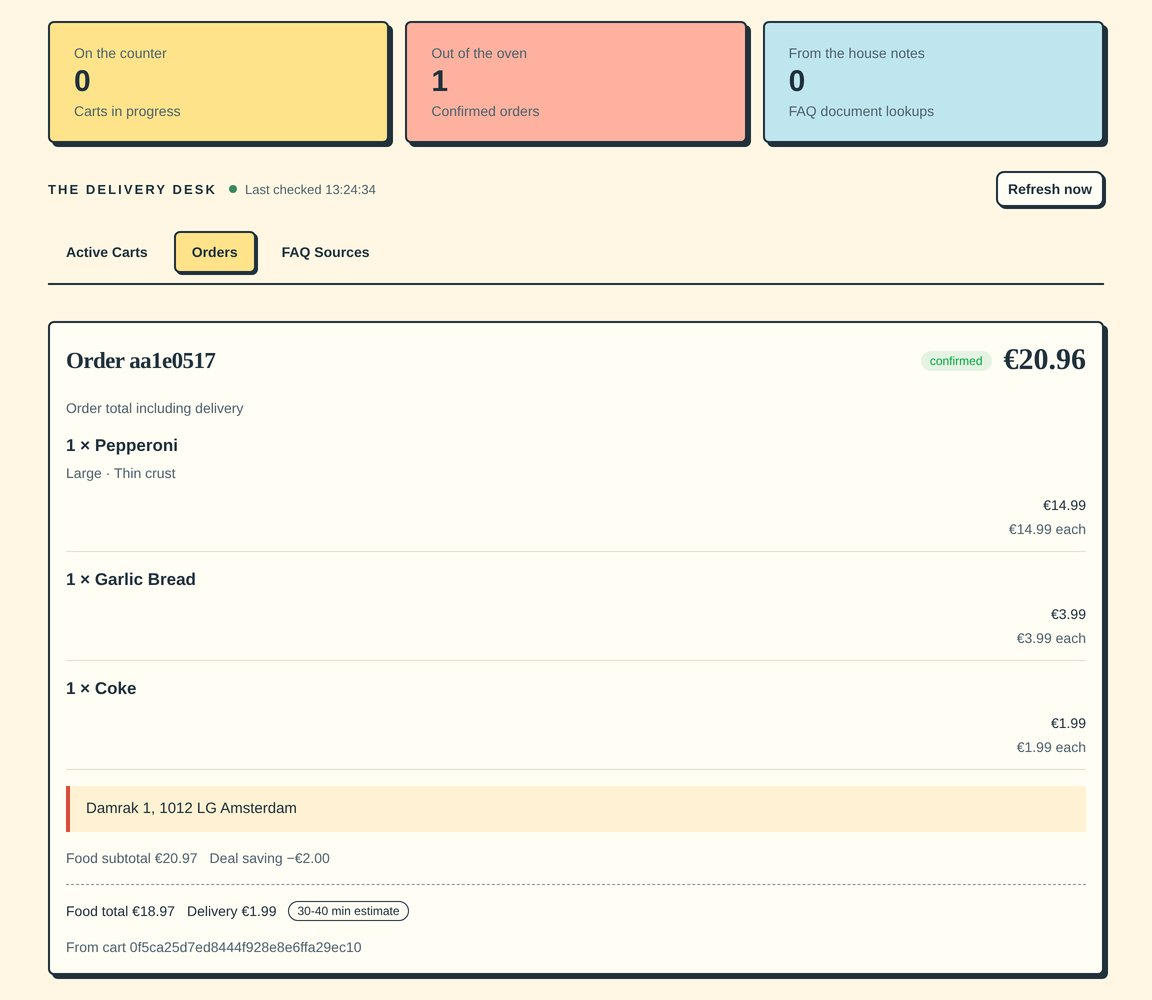
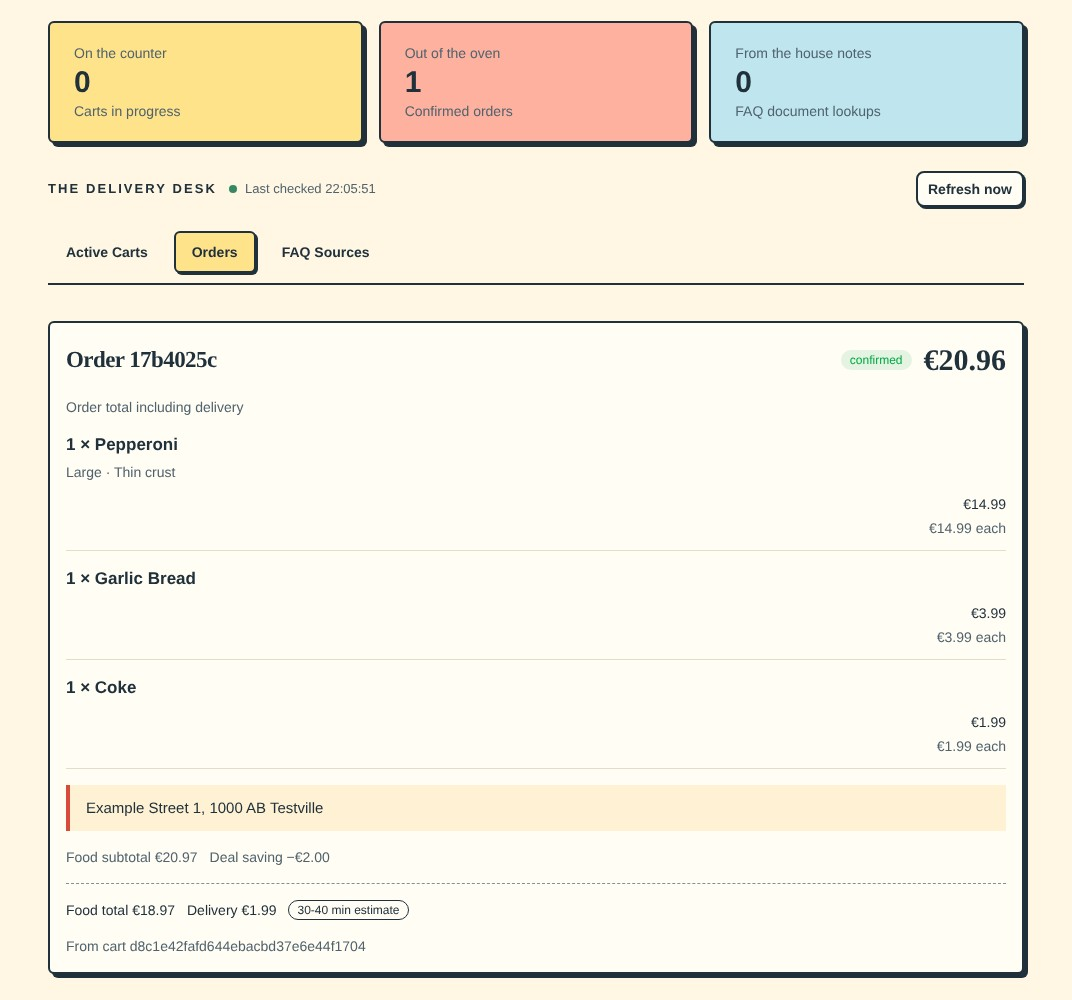
Use the made-up address everywhere
The walk-through, the delivery desk screenshot and the tests used Damrak 1,
a real Amsterdam address, while Chapter 3 and make measure use the made-up
Example Street 1, 1000 AB Testville. Real addresses count as personal data
in this repository, so use the made-up one at the source: in the text, in a
retaken screenshot of the same order (same items, deal and 20.96 total) and
in the test data.

diff --git a/tests/test_tools.py b/tests/test_tools.py
@@ -30,9 +30,10 @@ async def test_full_order_with_deal_delivery_fee_and_faq():
             "apply_deal", {"session_id": "order", "deal_id": "meal_deal_standard"}
         )
         quote = await client.call_tool(
-            "set_delivery_address", {"session_id": "order", "address": "Damrak 1, Amsterdam"}
+            "set_delivery_address",
+            {"session_id": "order", "address": "Example Street 1, Testville"},
         )
-        assert quote.data["address"] == "Damrak 1, Amsterdam"
+        assert quote.data["address"] == "Example Street 1, Testville"
         assert quote.data["delivery_fee"] == 1.99
         facts = await client.call_tool("faq_read", {"filename": "allergen_info.md"})
         assert "garlic" in facts.data.lower()
@@ -72,21 +73,23 @@ async def test_address_is_saved_as_the_customer_gave_it_and_can_be_replaced():
             await client.call_tool("set_delivery_address", {"session_id": "cart", "address": "  "})
         assert not state.sessions
         await client.call_tool(
-            "set_delivery_address", {"session_id": "cart", "address": "  Damrak 1,   Amsterdam "}
+            "set_delivery_address",
+            {"session_id": "cart", "address": "  Example Street 1,   Testville "},
         )
-        assert state.sessions["cart"].delivery_address == "Damrak 1, Amsterdam"
+        assert state.sessions["cart"].delivery_address == "Example Street 1, Testville"
         quote = (
             await client.call_tool(
-                "set_delivery_address", {"session_id": "cart", "address": "Rokin 75, Amsterdam"}
+                "set_delivery_address",
+                {"session_id": "cart", "address": "Sample Road 2, Testville"},
             )
         ).data
     assert quote == {
-        "address": "Rokin 75, Amsterdam",
+        "address": "Sample Road 2, Testville",
         "delivery_fee": 1.99,
         "estimated_minutes": "30-40",
         "currency": "EUR",
     }
-    assert state.sessions["cart"].delivery_address == "Rokin 75, Amsterdam"
+    assert state.sessions["cart"].delivery_address == "Sample Road 2, Testville"
     assert not state.orders
 
 

diff --git a/tests/test_client.py b/tests/test_client.py
@@ -54,7 +54,7 @@ async def test_customer_recovers_and_model_cannot_redirect_session():
                     ToolCall(
                         "3",
                         "set_delivery_address",
-                        {"session_id": "someone-else", "address": "Damrak 1, Amsterdam"},
+                        {"session_id": "someone-else", "address": "Example Street 1, Testville"},
                     )
                 ]
             ),
@@ -75,15 +75,15 @@ async def test_customer_recovers_and_model_cannot_redirect_session():
         assert not state.orders
         assert set(state.sessions) == {agent.session_id}
         assert "Rejected:" in model.requests[2][0][-1]["content"]
-        await agent.send("Damrak 1, Amsterdam")
+        await agent.send("Example Street 1, Testville")
         assert not state.orders
         quote = json.loads(model.requests[4][0][-1]["content"])
-        assert quote["address"] == "Damrak 1, Amsterdam" and quote["delivery_fee"] == 1.99
+        assert quote["address"] == "Example Street 1, Testville" and quote["delivery_fee"] == 1.99
         assert set(state.sessions) == {agent.session_id}
         await agent.send("Yes, confirm.")
     [order] = state.orders.values()
     assert order.session_id == agent.session_id
-    assert order.cart.delivery_address == "Damrak 1, Amsterdam"
+    assert order.cart.delivery_address == "Example Street 1, Testville"
 
 
 @pytest.mark.parametrize("allowed_tools", [None, {"browse_menu"}])

diff --git a/tests/test_operator_view.py b/tests/test_operator_view.py
@@ -99,12 +99,13 @@ async def test_operator_quote_and_confirmed_order_match_saved_business_state():
         snapshot = get_operator_snapshot()
         assert snapshot["active_carts"][0]["check"] == "Delivery address needed"
         await client.call_tool(
-            "set_delivery_address", {"session_id": "dinner", "address": "Damrak 1, Amsterdam"}
+            "set_delivery_address",
+            {"session_id": "dinner", "address": "Example Street 1, Testville"},
         )
         ready = get_operator_snapshot()["active_carts"][0]
         assert ready["check"] == "Ready to review" and ready["delivery_ready"]
         assert ready["grand_total"] == "€16.98" and ready["delivery_fee"] == "€1.99"
-        assert ready["address"] == "Damrak 1, Amsterdam"
+        assert ready["address"] == "Example Street 1, Testville"
         confirmed = (await client.call_tool("confirm_order", {"session_id": "dinner"})).data
         final = get_operator_snapshot()
         assert not final["active_carts"]

diff --git a/tests/test_record.py b/tests/test_record.py
@@ -106,12 +106,16 @@ async def test_a_call_that_changes_nothing_is_found(tmp_path):
     session, steps = await chat(
         tmp_path / "chat.jsonl",
         [
-            Reply(tool_calls=[ToolCall("1", "set_delivery_address", {"address": "Damrak 1"})]),
+            Reply(
+                tool_calls=[ToolCall("1", "set_delivery_address", {"address": "Example Street 1"})]
+            ),
             Reply("Saved."),
-            Reply(tool_calls=[ToolCall("2", "set_delivery_address", {"address": "Damrak 1"})]),
+            Reply(
+                tool_calls=[ToolCall("2", "set_delivery_address", {"address": "Example Street 1"})]
+            ),
             Reply("Done."),
         ],
-        ["Deliver to Damrak 1.", "Deliver to Damrak 1."],
+        ["Deliver to Example Street 1.", "Deliver to Example Street 1."],
     )
     found = findings(session, steps)
     assert any(f.startswith("turn 2 step 1  host/record") for f in found)

diff --git a/tests/test_business_tools.py b/tests/test_business_tools.py
@@ -92,7 +92,8 @@ async def test_each_chat_has_its_own_cart_and_its_own_order():
                 {"session_id": session, "pizza_id": "pepperoni", "size": size, "crust": "thin"},
             )
             await client.call_tool(
-                "set_delivery_address", {"session_id": session, "address": "Damrak 1, Amsterdam"}
+                "set_delivery_address",
+                {"session_id": session, "address": "Example Street 1, Testville"},
             )
         mine = (await client.call_tool("confirm_order", {"session_id": "mine"})).data
         # The order of one chat does not change the cart of a different chat.

diff --git a/chapter-1.md b/chapter-1.md
@@ -203,7 +203,7 @@ delivery desk after each message.
 4. *Confirm my order.* There is no address, so no order is placed and the cart
    does not change. The model asks for the address. If it calls `confirm_order`
    first, the tool refuses and the model reads the refusal.
-5. *Damrak 1, 1012 LG Amsterdam.* Then approve the order. Delivery adds €1.99,
+5. *Example Street 1, 1000 AB Testville.* The address is made up. Then approve the order. Delivery adds €1.99,
    and the total is €20.96. Sometimes the assistant places the order before you
    approve: see [What is still broken](#what-is-still-broken).
 

diff --git a/README.md b/README.md
@@ -252,7 +252,7 @@ sequenceDiagram
 ```
 
 The rule is in the tool, so no wording from the model can place the order. Give
-an address, for example `Damrak 1, 1012 LG Amsterdam`. The tool saves your words
+an address, for example `Example Street 1, 1000 AB Testville` (made up). The tool saves your words
 as they are; it does not check that the address exists. Approve the order. The
 confirmed order appears in **Orders**, and the total is €20.96. If the assistant
 places the order before you approve, you have found a fault that we left in:
